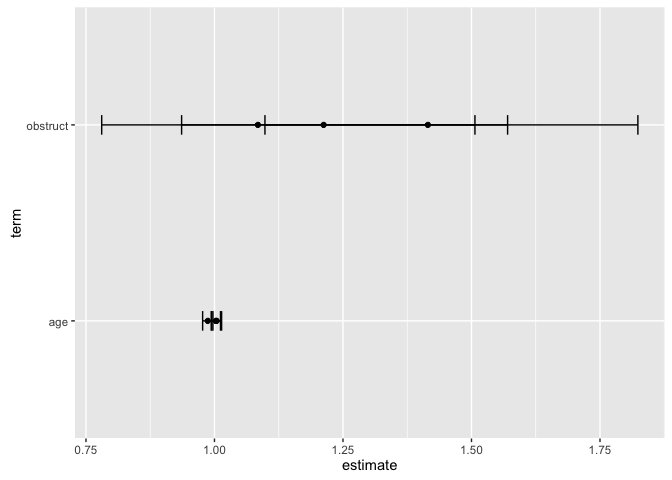
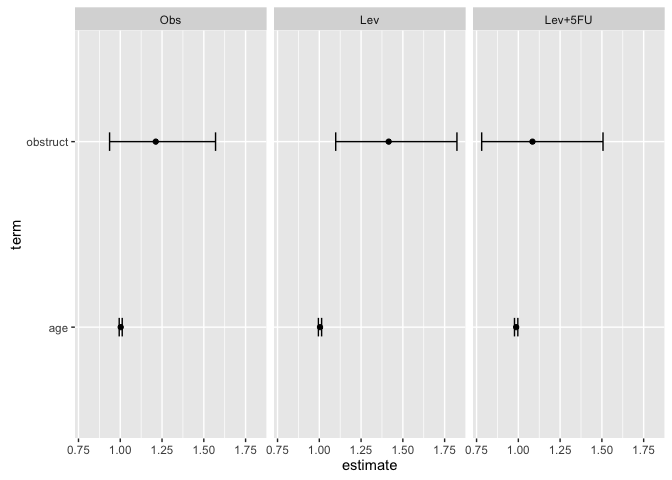
Fixing Bug in README

diff --git a/README.md b/README.md
@@ -97,7 +97,7 @@ kable(cox.res.df)
 Notice how the output data.frame now has cox regression results for each treatment group (i.e. Obs, Lev, Lev+5FU). We can also plot these results very easily:
 
 ``` r
-plot_cox_res(cox.res.df)
+plot_cox_res(cox.res.df, group = group)
 ```
 
 ![](README-images/get_cox_res_group_example-1.png)
